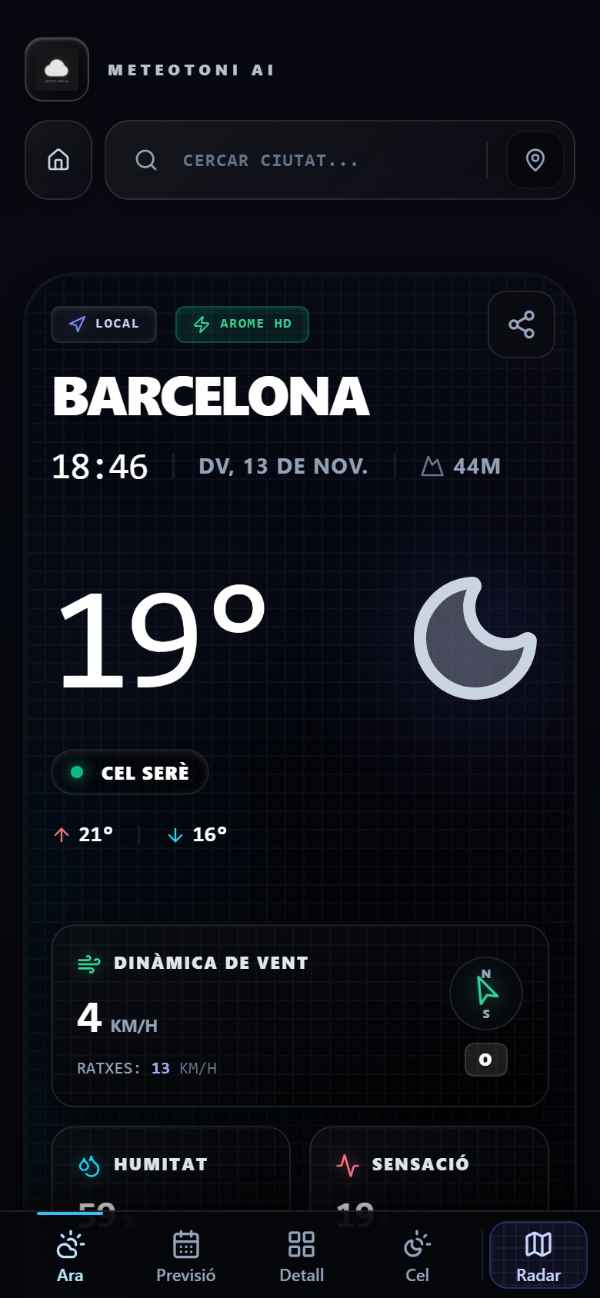
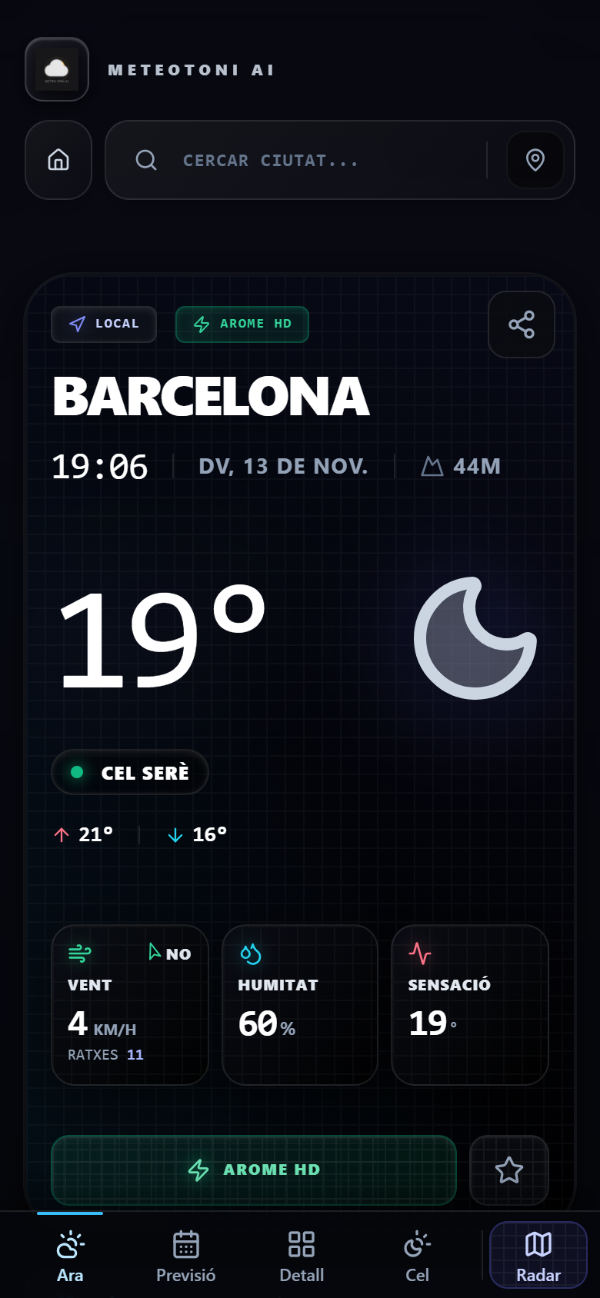
feat(ara): vent, humitat i sensació en una sola fila a la targeta compacta
Al mòbil, la targeta principal mostra el vent (velocitat, direcció i
ratxes), la humitat i la sensació en tres targetes petites en una fila, en
lloc del vent a tota l'amplada i les altres dues a sota: la targeta passa
de 740 a 623 px a 375 px i, amb els botons, cap a la primera pantalla.
Mateixos colors, icones i xifres; nom curt «Vent» als quatre idiomes. A
partir de 768 px, la targeta de sempre. Captura de mòbil del README al dia.

diff --git a/src/components/current-weather/WeatherStatsGrid.tsx b/src/components/current-weather/WeatherStatsGrid.tsx
@@ -11,11 +11,18 @@ interface WeatherStatsGridProps {
   humidity: number | null;
   apparentTemp: number | null;
   lang?: Language;
+  /**
+   * Targeta principal compacta (al mòbil): vent, humitat i sensació en una sola fila de tres targetes petites, en lloc
+   * del vent a tota l'amplada i les altres dues a sota. Les mateixes dades, colors i icones.
+   */
+  compact?: boolean;
 }
 
 // TIPATGE ESTRICTE: Definim l'estructura del diccionari tàctic
 interface GridTranslation {
   windDynamics: string;
+  /** Nom curt per a la fila compacta (hi ha 98 px per targeta a 375 px). */
+  wind: string;
   gusts: string;
   humidity: string;
   feelsLike: string;
@@ -27,6 +34,7 @@ interface GridTranslation {
 const gridTranslations: Record<string, GridTranslation> = {
   ca: {
     windDynamics: "Dinàmica de Vent",
+    wind: "Vent",
     gusts: "RATXES",
     humidity: "Humitat",
     feelsLike: "Sensació",
@@ -35,6 +43,7 @@ const gridTranslations: Record<string, GridTranslation> = {
   },
   es: {
     windDynamics: "Dinámica de Viento",
+    wind: "Viento",
     gusts: "RACHAS",
     humidity: "Humedad",
     feelsLike: "Sensación",
@@ -43,6 +52,7 @@ const gridTranslations: Record<string, GridTranslation> = {
   },
   en: {
     windDynamics: "Wind Dynamics",
+    wind: "Wind",
     gusts: "GUSTS",
     humidity: "Humidity",
     feelsLike: "Feels Like",
@@ -51,6 +61,7 @@ const gridTranslations: Record<string, GridTranslation> = {
   },
   fr: {
     windDynamics: "Dynamique du Vent",
+    wind: "Vent",
     gusts: "RAFALES",
     humidity: "Humidité",
     feelsLike: "Ressenti",
@@ -59,7 +70,7 @@ const gridTranslations: Record<string, GridTranslation> = {
   }
 };
 
-export const WeatherStatsGrid = ({ windSpeed, windGusts, windDirection, humidity, apparentTemp, lang = 'ca' }: WeatherStatsGridProps) => {
+export const WeatherStatsGrid = ({ windSpeed, windGusts, windDirection, humidity, apparentTemp, lang = 'ca', compact = false }: WeatherStatsGridProps) => {
   // Garantim un fallback segur si s'introdueix un idioma no mapejat
   const safeLang = gridTranslations[lang] ? lang : 'ca';
   const t = gridTranslations[safeLang];
@@ -82,6 +93,84 @@ export const WeatherStatsGrid = ({ windSpeed, windGusts, windDirection, humidity
 
   // SPATIAL UI BASE (Bateria optimitzada per a mòbil)
   const BASE_CARD = "relative overflow-hidden bg-gradient-to-br border shadow-[0_8px_32px_rgba(0,0,0,0.5)] transform-gpu transition-colors duration-500";
+
+  // FILA COMPACTA: la icona a dalt i el nom a sota (perquè hi càpiga fins a 320 px), i el valor a baix de tot amb una
+  // línia a sota (les ratxes al vent; buida a les altres dues): així els tres valors queden a la mateixa alçada encara
+  // que algun nom ocupi dues línies.
+  if (compact) {
+    const tone = (valid: boolean) => valid ? 'from-[#0B0D14]/95 to-black/90 border-white/10' : 'from-[#1a1d27]/90 to-black/80 border-slate-700/60';
+    const MINI = `${BASE_CARD} p-2.5 sm:p-3 rounded-2xl flex flex-col min-w-0`;
+    const LABEL = 'mt-1.5 text-[10px] font-black uppercase tracking-wider leading-tight break-words z-10 relative';
+    const VALUE = 'text-2xl font-mono font-bold tabular-nums tracking-tight leading-none';
+    const SUB = 'mt-1 h-3.5 text-[10px] font-mono uppercase leading-none truncate';
+    const ICON = 'w-4 h-4 shrink-0';
+
+    return (
+      <div className="grid grid-cols-3 gap-2 relative z-10 w-full">
+        {/* VENT: velocitat, direcció (fletxa i punt cardinal) i ratxes */}
+        <div className={`${MINI} ${tone(isValidWind)}`}>
+          <div className={MATRIX_BG}></div>
+          <div className="flex items-center justify-between gap-1 z-10 relative">
+            {isValidWind
+              ? <Wind className={`${ICON} text-emerald-400 drop-shadow-[0_0_5px_rgba(52,211,153,0.5)]`} aria-hidden="true" />
+              : <CloudOff className={`${ICON} text-slate-400`} aria-hidden="true" />}
+            <span className={`flex items-center gap-0.5 text-[10px] font-black tracking-wider ${isValidDir ? 'text-slate-200' : 'text-slate-500'}`}>
+              {isValidDir && windDirection !== null && windDirection !== undefined && (
+                <Navigation className="w-3 h-3 text-emerald-400" style={{ transform: `rotate(${windDirection}deg)` }} aria-hidden="true" />
+              )}
+              {getCardinal(windDirection)}
+            </span>
+          </div>
+          <span className={`${LABEL} ${isValidWind ? 'text-slate-200' : 'text-slate-400'}`}>{t.wind}</span>
+          <div className="mt-auto pt-1.5 z-10 relative">
+            <div className="flex items-baseline gap-1">
+              <span className={`${VALUE} ${isValidWind ? 'text-white' : 'text-slate-500'}`}>{safeVal(windSpeed)}</span>
+              <span className={`text-[10px] font-bold uppercase ${isValidWind ? 'text-slate-400' : 'text-slate-500'}`}>km/h</span>
+            </div>
+            <div className={`${SUB} text-slate-400`}>
+              {t.gusts} <span className={`font-black tabular-nums ${isValidGusts ? 'text-indigo-300' : 'text-slate-500'}`}>{safeVal(windGusts)}</span>
+            </div>
+          </div>
+        </div>
+
+        {/* HUMITAT */}
+        <div className={`${MINI} ${tone(isValidHum)}`}>
+          <div className={MATRIX_BG}></div>
+          <div className="z-10 relative">
+            {isValidHum
+              ? <Droplets className={`${ICON} text-cyan-400 drop-shadow-[0_0_5px_rgba(34,211,238,0.5)]`} aria-hidden="true" />
+              : <CloudOff className={`${ICON} text-slate-400`} aria-hidden="true" />}
+          </div>
+          <span className={`${LABEL} ${isValidHum ? 'text-slate-200' : 'text-slate-400'}`}>{t.humidity}</span>
+          <div className="mt-auto pt-1.5 z-10 relative">
+            <div className="flex items-baseline gap-0.5">
+              <span className={`${VALUE} ${isValidHum ? 'text-white' : 'text-slate-500'}`}>{safeVal(humidity)}</span>
+              <span className={`text-xs font-bold ${isValidHum ? 'text-slate-400' : 'text-slate-500'}`}>%</span>
+            </div>
+            <div className={SUB} aria-hidden="true"></div>
+          </div>
+        </div>
+
+        {/* SENSACIÓ TÈRMICA */}
+        <div className={`${MINI} ${tone(isValidTemp)}`}>
+          <div className={MATRIX_BG}></div>
+          <div className="z-10 relative">
+            {isValidTemp
+              ? <Activity className={`${ICON} text-rose-400 drop-shadow-[0_0_5px_rgba(251,113,133,0.5)]`} aria-hidden="true" />
+              : <CloudOff className={`${ICON} text-slate-400`} aria-hidden="true" />}
+          </div>
+          <span className={`${LABEL} ${isValidTemp ? 'text-slate-200' : 'text-slate-400'}`}>{t.feelsLike}</span>
+          <div className="mt-auto pt-1.5 z-10 relative">
+            <div className="flex items-baseline gap-0.5">
+              <span className={`${VALUE} ${isValidTemp ? 'text-white' : 'text-slate-500'}`}>{safeVal(apparentTemp)}</span>
+              <span className={`text-xs font-bold ${isValidTemp ? 'text-slate-400' : 'text-slate-500'}`}>°</span>
+            </div>
+            <div className={SUB} aria-hidden="true"></div>
+          </div>
+        </div>
+      </div>
+    );
+  }
 
   return (
     <div className="flex flex-col gap-3 md:gap-4 relative z-10 w-full">

diff --git a/src/components/current-weather/WeatherStatsGrid.test.tsx b/src/components/current-weather/WeatherStatsGrid.test.tsx
@@ -1,0 +1,49 @@
+// La fila compacta de la targeta principal (al mòbil): vent, humitat i sensació en tres targetes petites.
+import { describe, it, expect } from 'vitest';
+import { render, screen } from '@testing-library/react';
+import { WeatherStatsGrid } from './WeatherStatsGrid';
+import type { Language } from '../../translations';
+
+const renderGrid = (props: Partial<Parameters<typeof WeatherStatsGrid>[0]> = {}) => render(
+    <WeatherStatsGrid windSpeed={12} windGusts={27} windDirection={315} humidity={58} apparentTemp={19} lang="ca" {...props} />
+);
+
+describe('WeatherStatsGrid → fila compacta', () => {
+    it('sense `compact`, la de sempre: el vent a tota l\'amplada amb el nom llarg', () => {
+        const { container } = renderGrid();
+        expect(screen.getByText('Dinàmica de Vent')).toBeTruthy();
+        expect(container.querySelector('.grid-cols-3')).toBeNull();
+    });
+
+    it('compacta: tres targetes en una fila, amb totes les dades (vent, direcció, ratxes, humitat i sensació)', () => {
+        const { container } = renderGrid({ compact: true });
+        const row = container.querySelector('.grid-cols-3') as HTMLElement;
+        expect(row).not.toBeNull();
+        expect(row.children).toHaveLength(3);
+        const [wind, humidity, feels] = Array.from(row.children).map((card) => card.textContent?.replace(/\s+/g, ' ').trim());
+        // El punt cardinal (315° = NO) a dalt, el nom, la velocitat i les ratxes.
+        expect(wind).toBe('NOVent12km/hRATXES 27');
+        expect(humidity).toBe('Humitat58%');
+        expect(feels).toBe('Sensació19°');
+    });
+
+    it('sense dades, «--» i cap fletxa de direcció (mai un 0 inventat)', () => {
+        const { container } = renderGrid({ compact: true, windSpeed: null, windGusts: null, windDirection: null, humidity: null, apparentTemp: null });
+        const row = container.querySelector('.grid-cols-3') as HTMLElement;
+        expect(row.textContent).not.toMatch(/\b0\b/);
+        expect((row.textContent?.match(/--/g) ?? []).length).toBeGreaterThanOrEqual(4);
+    });
+
+    it('els noms curts als quatre idiomes', () => {
+        const labels = (lang: Language) => {
+            const { unmount } = renderGrid({ compact: true, lang });
+            const text = document.body.textContent ?? '';
+            unmount();
+            return text;
+        };
+        expect(labels('es')).toContain('Viento');
+        expect(labels('en')).toContain('Wind');
+        expect(labels('en')).toContain('NW');
+        expect(labels('fr')).toContain('Ressenti');
+    });
+});

diff --git a/src/components/CurrentWeather.compact.test.tsx b/src/components/CurrentWeather.compact.test.tsx
@@ -41,6 +41,8 @@ describe('CurrentWeather → targeta compacta', () => {
         expect(screen.getAllByTestId('weather-icon')).toHaveLength(1);
         expect(iconBesideTemperature()).toBe(false);
         expect(screen.getByTestId('weather-icon').getAttribute('data-size')).toContain('w-40');
+        // El vent a tota l'amplada, amb el nom llarg.
+        expect(screen.getByText('Dinàmica de Vent')).toBeTruthy();
     });
 
     it('compacta al mòbil: una sola icona, més petita, a la fila de la temperatura', () => {
@@ -48,8 +50,11 @@ describe('CurrentWeather → targeta compacta', () => {
         expect(screen.getAllByTestId('weather-icon')).toHaveLength(1);
         expect(iconBesideTemperature()).toBe(true);
         expect(screen.getByTestId('weather-icon').getAttribute('data-size')).toContain('w-24');
-        // La resta de la targeta hi és igual: el vent, la humitat, la sensació i els botons.
-        expect(screen.getByText('Dinàmica de Vent')).toBeTruthy();
+        // El vent, la humitat i la sensació, en una sola fila (els noms curts); els botons, igual.
+        expect(screen.queryByText('Dinàmica de Vent')).toBeNull();
+        expect(screen.getByText('Vent')).toBeTruthy();
+        expect(screen.getByText('Humitat')).toBeTruthy();
+        expect(screen.getByText('Sensació')).toBeTruthy();
         expect(screen.getByRole('button', { name: /radar/i })).toBeTruthy();
     });
 

diff --git a/src/components/CurrentWeather.tsx b/src/components/CurrentWeather.tsx
@@ -38,9 +38,9 @@ interface CurrentWeatherProps {
   activeRegionalModel?: RegionalModel | null;
   shiftedNow?: Date;
   /**
-   * Interfície per pestanyes: al mòbil (< 768 px) la icona va al costat de la temperatura, no a sota, perquè la
-   * targeta càpiga a la pantalla. Si la xifra és massa ampla (p. ex. "-12°" a 320 px), la icona baixa a sota.
-   * A partir de 768 px, la targeta de sempre.
+   * Interfície per pestanyes: al mòbil (< 768 px) la icona va al costat de la temperatura, no a sota, i el vent, la
+   * humitat i la sensació van en una sola fila (vegeu WeatherStatsGrid), perquè la targeta càpiga a la pantalla. Si la
+   * xifra és massa ampla (p. ex. "-12°" a 320 px), la icona baixa a sota. A partir de 768 px, la targeta de sempre.
    */
   compact?: boolean;
   /** Interfície per pestanyes: el Radar és a la barra de pestanyes, no es repeteix a la targeta. */
@@ -229,6 +229,7 @@ export default function CurrentWeather(props: CurrentWeatherProps) {
             humidity={parseMetric(weather.stats.humidity)}
             apparentTemp={parseMetric(weather.temps.apparent)}
             lang={props.lang}
+            compact={iconBesideTemp}
           />
 
           <div className="mt-2 md:mt-0">
